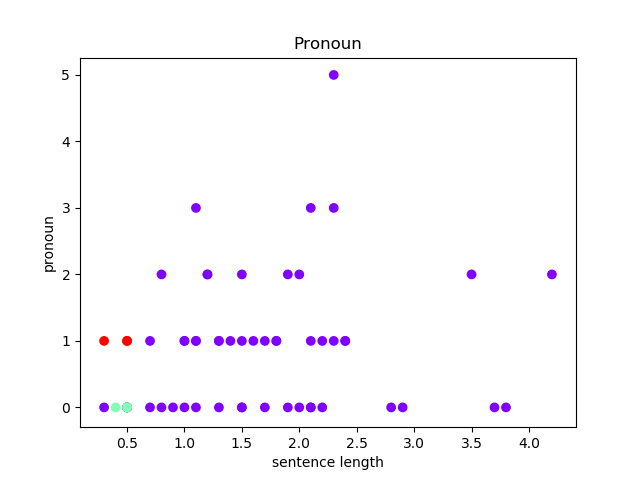
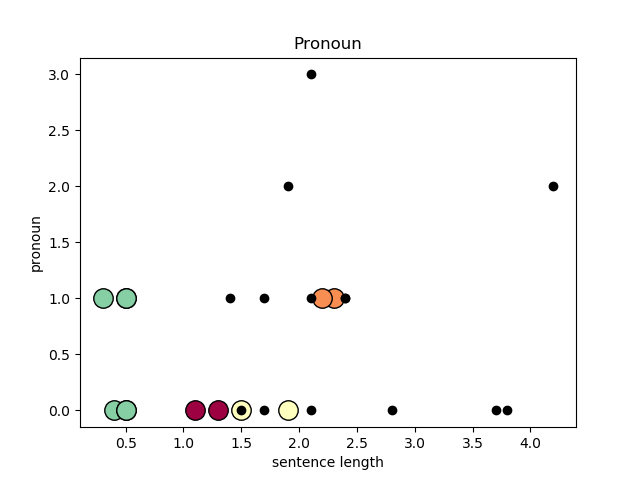
Clustering and graphs corrected

diff --git a/templates/output.html b/templates/output.html
@@ -7,10 +7,11 @@
     />
   </head>
   <body>
-    <div style="margin: 2%; ">
+    <div style="margin: 2%;">
       <h4>The Possibly plagiarized segments are:</h4>
       <br />
-      {% for i in range(labels|length)%} {% if labels[i]!=maxf%}
+      {% for i in range(labels|length)%} {% if labels[i]!=max and
+      labels[i]!=-1%}
       <h6>{{segments[i]}}</h6>
       {%endif%} {%endfor %}
     </div>
@@ -18,10 +19,10 @@
     <div style="margin: 2%;">
       <h4 align="center">Analysis</h4>
       <br />
-      <div class="row" style=" display:flex; justify-content: space-around; ">
-        <img src="{{fig0}}" class="img-responsive" style="width:30%" />
-        <img src="{{fig1}}" class="img-responsive" style="width:30%" />
-        <img src="{{fig2}}" class="img-responsive" style="width:30%" />
+      <div class="row" style="display: flex; justify-content: space-around;">
+        <img src="{{fig0}}" class="img-responsive" style="width: 30%;" />
+        <img src="{{fig1}}" class="img-responsive" style="width: 30%;" />
+        <img src="{{fig2}}" class="img-responsive" style="width: 30%;" />
       </div>
     </div>
   </body>

diff --git a/app.py b/app.py
@@ -4,12 +4,13 @@ import pandas as pd
 import nltk
 import os
 from sklearn.cluster import DBSCAN
-from sklearn.preprocessing import StandardScaler 
-from sklearn.preprocessing import normalize 
-from sklearn.decomposition import PCA 
+from sklearn import metrics
+from sklearn.datasets import make_blobs
+from sklearn.preprocessing import StandardScaler
 from matplotlib import pyplot as plt
 from flask import Flask, render_template, request
 app = Flask(__name__)
+app.config['SEND_FILE_MAX_AGE_DEFAULT'] = 0
 
 @app.route('/')  
 def upload():  
@@ -54,7 +55,7 @@ def plagiarismDetection():
             posTagged = pos_tag(text)
             simplifiedTags = [(word, map_tag('en-ptb', 'universal', tag)) for word, tag in posTagged]
             listOfPartsOfSpeechWithWords.append(simplifiedTags)
-        print(listOfPartsOfSpeechWithWords)
+        print("list of tokens with tags: ", listOfPartsOfSpeechWithWords)
 
         featuresHeading=['sentence number ','PRON','.','word count','DET']
 
@@ -64,8 +65,6 @@ def plagiarismDetection():
         dataTable=np.zeros([0,length],dtype = int)
 
 
-
-        i=1
 
         for i in range(len(listOfPartsOfSpeechWithWords)): #ele in listOfPartsOfSpeechWithWords:
             rowToAdd=np.zeros(length, dtype= float)
@@ -87,7 +86,7 @@ def plagiarismDetection():
                     
             rowToAdd[3]= wordCount[i]/10        
             dataTable=np.vstack((dataTable,rowToAdd))
-        print(dataTable)
+        print("Data Table: ", dataTable)
 
 
         from copy import copy, deepcopy
@@ -96,115 +95,96 @@ def plagiarismDetection():
 
         new=np.delete(new,0,axis=1)
 
+        #X = StandardScaler().fit_transform(new)
 
-        # kmeans=KMeans(n_clusters=5).fit(new)
+        # Compute DBSCAN
+        X=new
+        db = DBSCAN(eps=0.5, min_samples=5).fit(X)
+        #core_samples_mask = np.zeros_like(db.labels_, dtype=bool)
+        core_samples_mask= np.zeros(len(db.labels_),dtype=bool)
+        for ele in db.core_sample_indices_:
+            core_samples_mask[ele] = True
+        labels = db.labels_
 
-       # labels=list(kmeans.labels_)
-        #print(labels)
-        #print(kmeans.cluster_centers_)
+        # Number of clusters in labels, ignoring noise if present.
+        n_clusters = len(set(labels)) - (1 if -1 in labels else 0)
+        n_noise = list(labels).count(-1)
 
-        #plt.figure(figsize=(10,10))
+        print('Estimated number of clusters: %d' % n_clusters)
+        print('Estimated number of noise points: %d' % n_noise)
 
-        # Scaling the data to bring all the attributes to a comparable level 
-        scaler = StandardScaler() 
-        X_scaled = scaler.fit_transform(new) 
+        # Plot result
+        import matplotlib.pyplot as plt
 
-        # Normalizing the data so that  
-        # the data approximately follows a Gaussian distribution 
-        X_normalized = normalize(X_scaled) 
-
-        # Converting the numpy array into a pandas DataFrame 
-        X_normalized = pd.DataFrame(X_normalized) 
-        pca = PCA(n_components = 2) 
-        X_principal = pca.fit_transform(X_normalized)
-        X_principal = pd.DataFrame(X_principal) 
-        X_principal.columns = ['P1', 'P2'] 
-
-
-        db_default = DBSCAN(eps = 0.0375, min_samples = 3).fit(X_principal) 
-        labels_ = db_default.labels_ 
-
-        labels=list(labels_)
-
-        #plt.subplot(2,2,1)
-        plt.figure(num=0)
-        plt.scatter(new[:,2],new[:,0], c=labels_, cmap='rainbow')
-        plt.title('Pronoun')
-        plt.xlabel('sentence length')
-        plt.ylabel('pronoun')
-        #plt.scatter(kmeans.cluster_centers_[:,2] ,kmeans.cluster_centers_[:,0], color='black')
-        plt.savefig('static/fig0.png')
-
-        #plt.subplot(2,2,2)
-        plt.figure(num=1)
-        plt.scatter(new[:,2],new[:,1], c=labels_, cmap='rainbow')
-        plt.title('Punctuation')
-        plt.xlabel('sentence length')
-        plt.ylabel('punctuation')
-        #plt.scatter(kmeans.cluster_centers_[:,2] ,kmeans.cluster_centers_[:,1], color='black')
-        plt.savefig('static/fig1.png')
-
-        #plt.subplot(2,2,3)
-        plt.figure(num=2)
-        plt.scatter(new[:,2],new[:,3], c=labels_, cmap='rainbow')
-        plt.title('Determiner')
-        plt.xlabel('sentence length')
-        plt.ylabel('determiner')
-        #plt.scatter(kmeans.cluster_centers_[:,2] ,kmeans.cluster_centers_[:,3], color='black')
-        plt.savefig('static/fig2.png')
-
-        #plt.tight_layout()
-        #plt.show()
+        # Black removed and is used for noise instead.
+        unique_labels = set(labels)
+        clusterFrequency= np.zeros(n_clusters,dtype='int')
+        colors = [plt.cm.Spectral(each)
+                for each in np.linspace(0, 1, len(unique_labels))]
+        
+        for k, col in zip(unique_labels, colors):
+            if k == -1:
+                # Black used for noise.
+                col = [0, 0, 0, 1]
 
 
+            class_member_mask = (labels == k)
+            if(k!=-1):
+                clusterFrequency[k]=np.count_nonzero(class_member_mask)
 
-        #plt.scatter(kmeans.cluster_centers_[:,0] ,kmeans.cluster_centers_[:,1], color='black')
-
-
-
-        #countiing the frequency
-        zero=one=two=three=four=0
-        for ele  in labels:
-            if(ele==0):
-                zero+=1
-            if(ele==1):
-                one+=1
-            if(ele==2):
-                two+=1
-            if(ele==3):
-                three+=1
-            if(ele==4):
-                four+=1
-        print(zero,one,two,three,four)
-
-        max=0
-        maxf=0
-        if(max<zero):
-            max=zero
-            maxf=0
-        if(max<one):
-            max=one
-            maxf=1
-        if(max<two):
-            max=two
-            maxf=2
-        if(max<three):
-            max=three
-            maxf=3
-        if(max<four):
-            max=four
-            maxf=4
-        print(max,maxf)
-
-
-
-        i=0
-        for ele in labels: 
+            xc = X[class_member_mask & core_samples_mask]
+            xnc = X[class_member_mask & ~core_samples_mask]
             
-            if(ele!=maxf):
-                print(segments[i])
-            i+=1
-    return render_template("output.html", segments=segments, labels=labels, maxf = maxf, fig0 = '/static/fig0.png', fig1 = '/static/fig1.png', fig2 = '/static/fig2.png')
+            fig0=plt.figure(num=0)
+            plt.title('Pronoun')
+            plt.xlabel('sentence length')
+            plt.ylabel('pronoun')
+            
+            plt.plot(xc[:, 2], xc[:, 0], 'o', markerfacecolor=tuple(col),
+                    markeredgecolor='k', markersize=14)
+            plt.plot(xnc[:, 2], xnc[:, 0], 'o', markerfacecolor=tuple(col),
+                    markeredgecolor='k', markersize=6)
+            plt.savefig('static/fig0.png')
+            
+            
+            fig1=plt.figure(num=1)
+            plt.title('Punctuation')
+            plt.xlabel('sentence length')
+            plt.ylabel('punctuation')
+            
+            plt.plot(xc[:, 2], xc[:, 1], 'o', markerfacecolor=tuple(col),
+                    markeredgecolor='k', markersize=14)
+            plt.plot(xnc[:, 2], xnc[:, 1], 'o', markerfacecolor=tuple(col),
+                    markeredgecolor='k', markersize=6)
+            plt.savefig('static/fig1.png')
 
+
+            fig2=plt.figure(num=2)
+            plt.title('Determiner')
+            plt.xlabel('sentence length')
+            plt.ylabel('determiner')
+            
+            plt.plot(xc[:, 2], xc[:, 3], 'o', markerfacecolor=tuple(col),
+                    markeredgecolor='k', markersize=14)
+            plt.plot(xnc[:, 2], xnc[:, 3], 'o', markerfacecolor=tuple(col),
+                    markeredgecolor='k', markersize=6)
+            plt.savefig('static/fig2.png')
+
+        fig0.clf()
+        fig1.clf()
+        fig2.clf()
+        max=np.argmax(clusterFrequency)
+        for i in range(len(labels)):
+            if(labels[i]==-1):
+                print(segments[i])
+        
+    #return render_template("output.html", segments=segments, labels=labels, maxf = maxf, fig0 = '/static/fig0.png', fig1 = '/static/fig1.png', fig2 = '/static/fig2.png')
+    return render_template("output.html", segments=segments, labels=labels,max=max,fig0 = '/static/fig0.png', fig1 = '/static/fig1.png', fig2 = '/static/fig2.png' )
 if __name__ == '__main__':
     app.run()
+
+"""# No caching at all for API endpoints.
+@app.after_request
+def add_header(response):
+    response.cache_control.max_age = 300
+    return response"""
